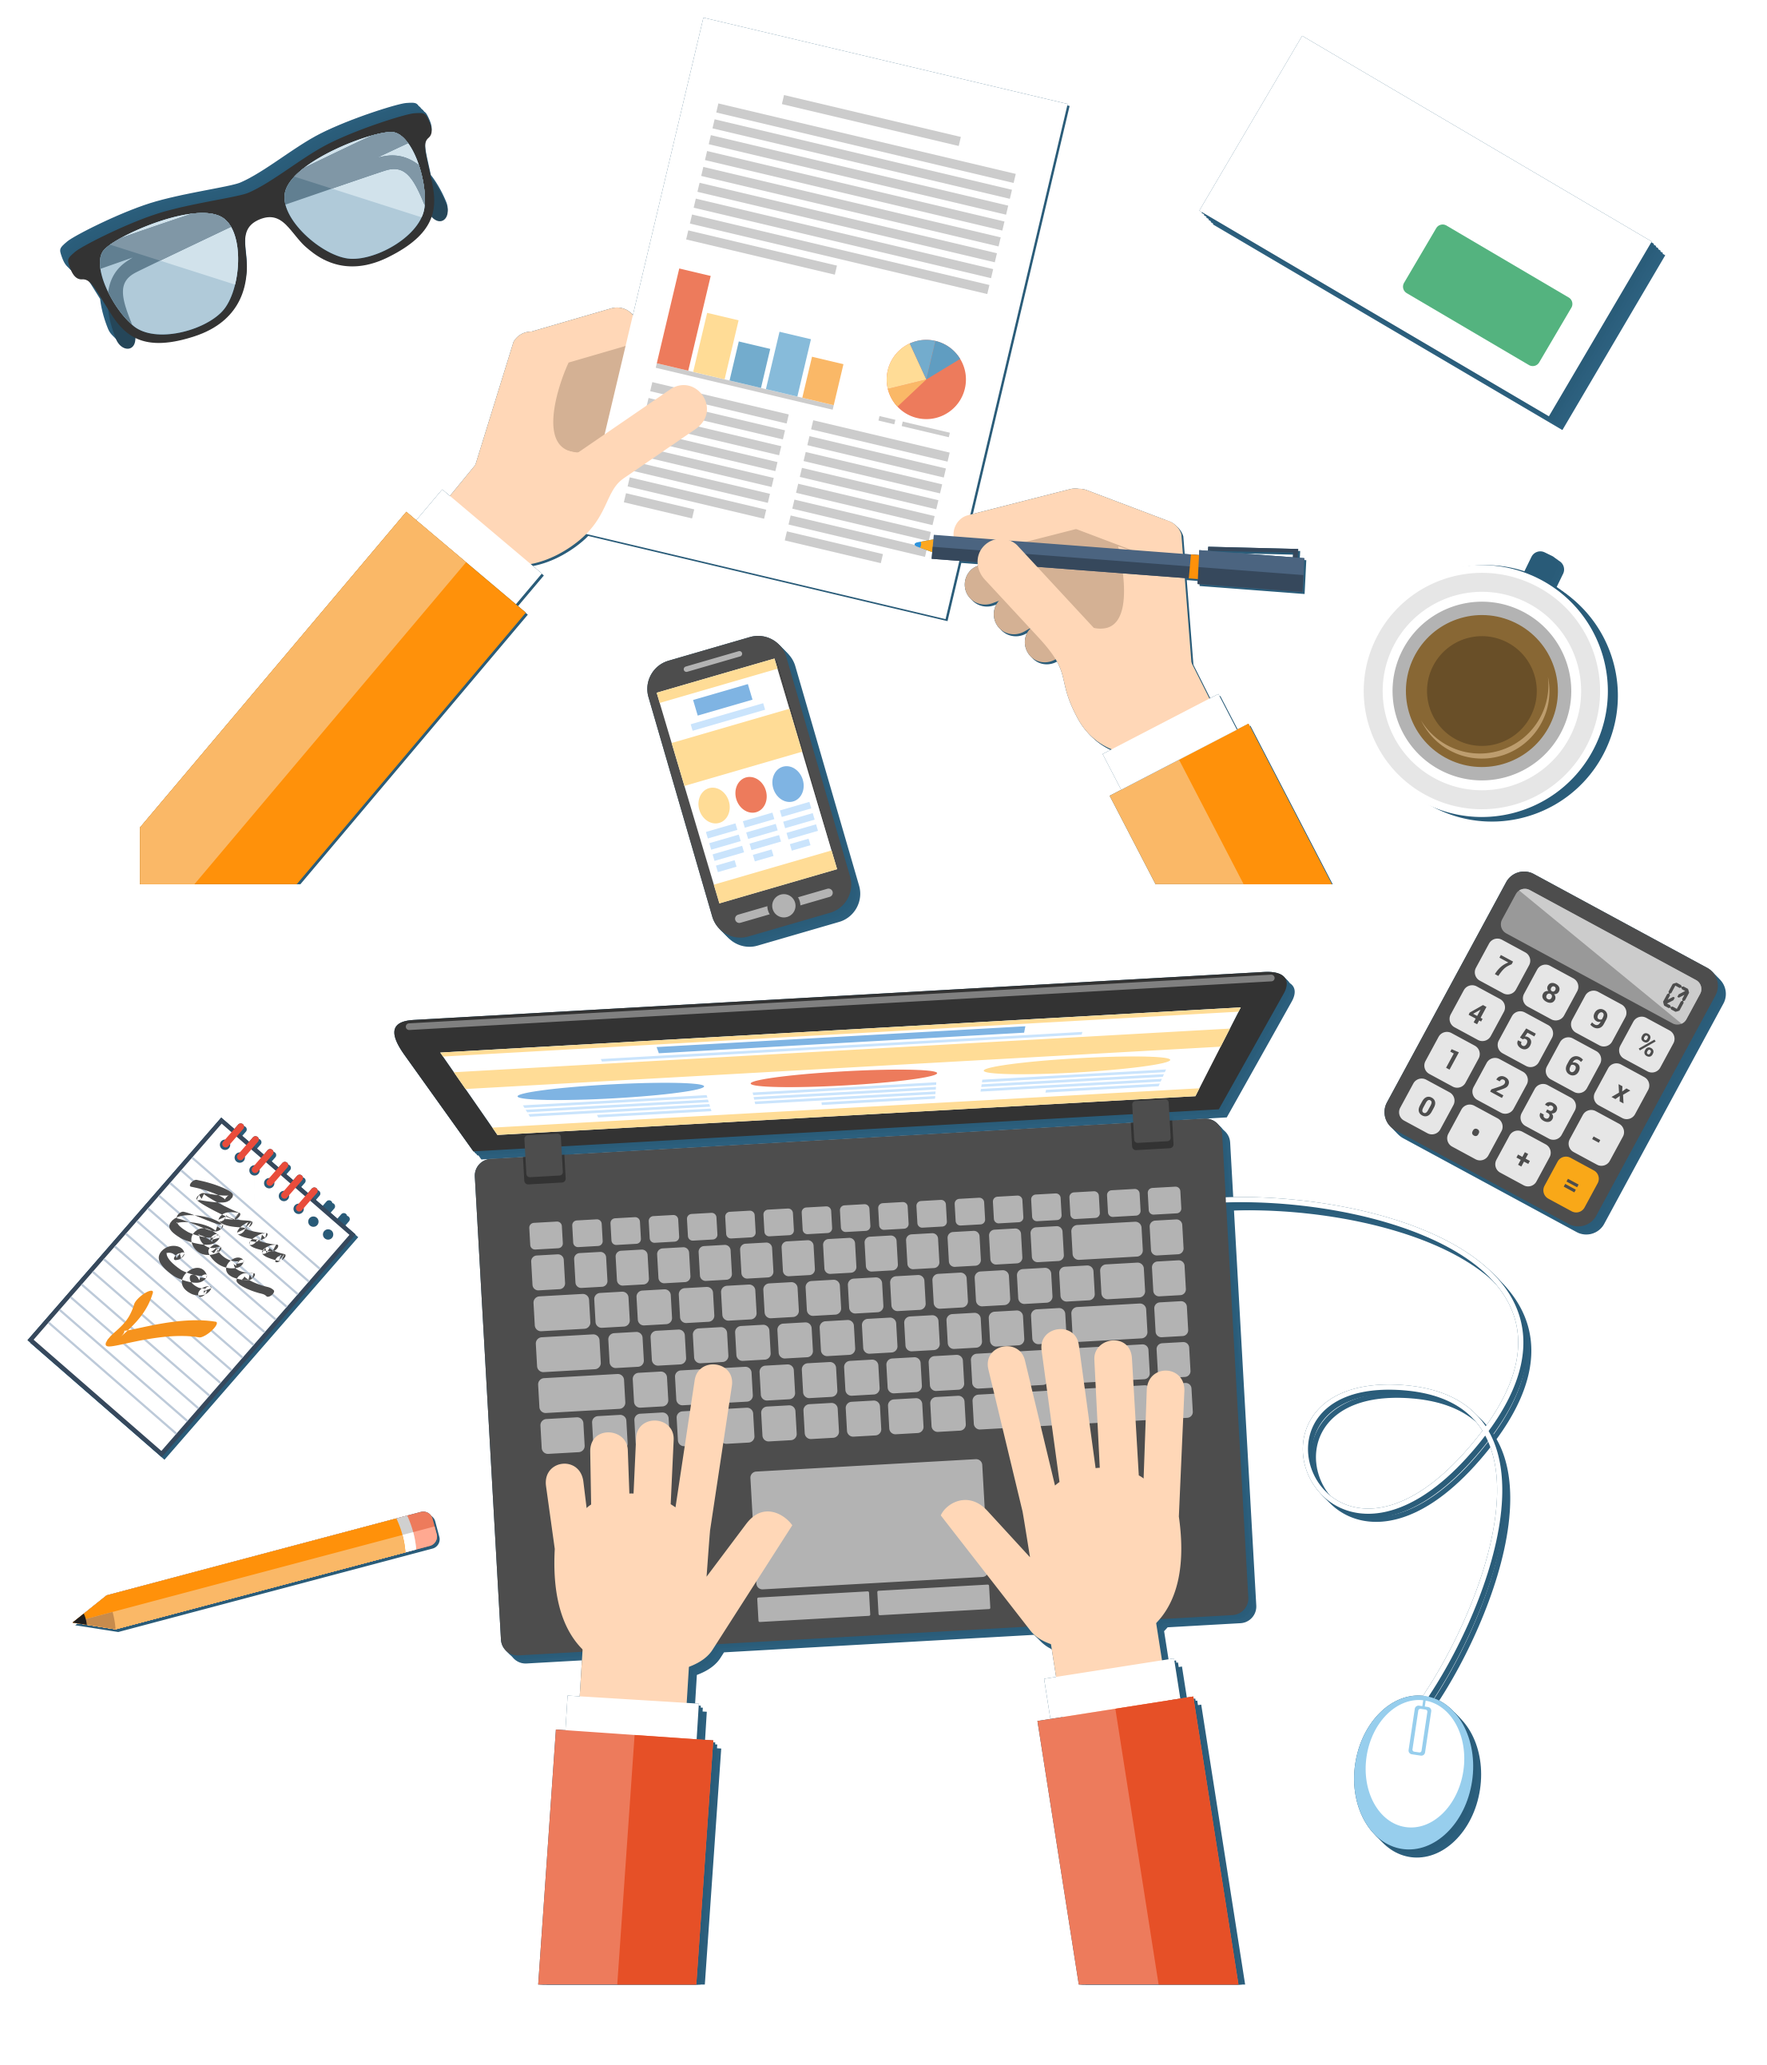
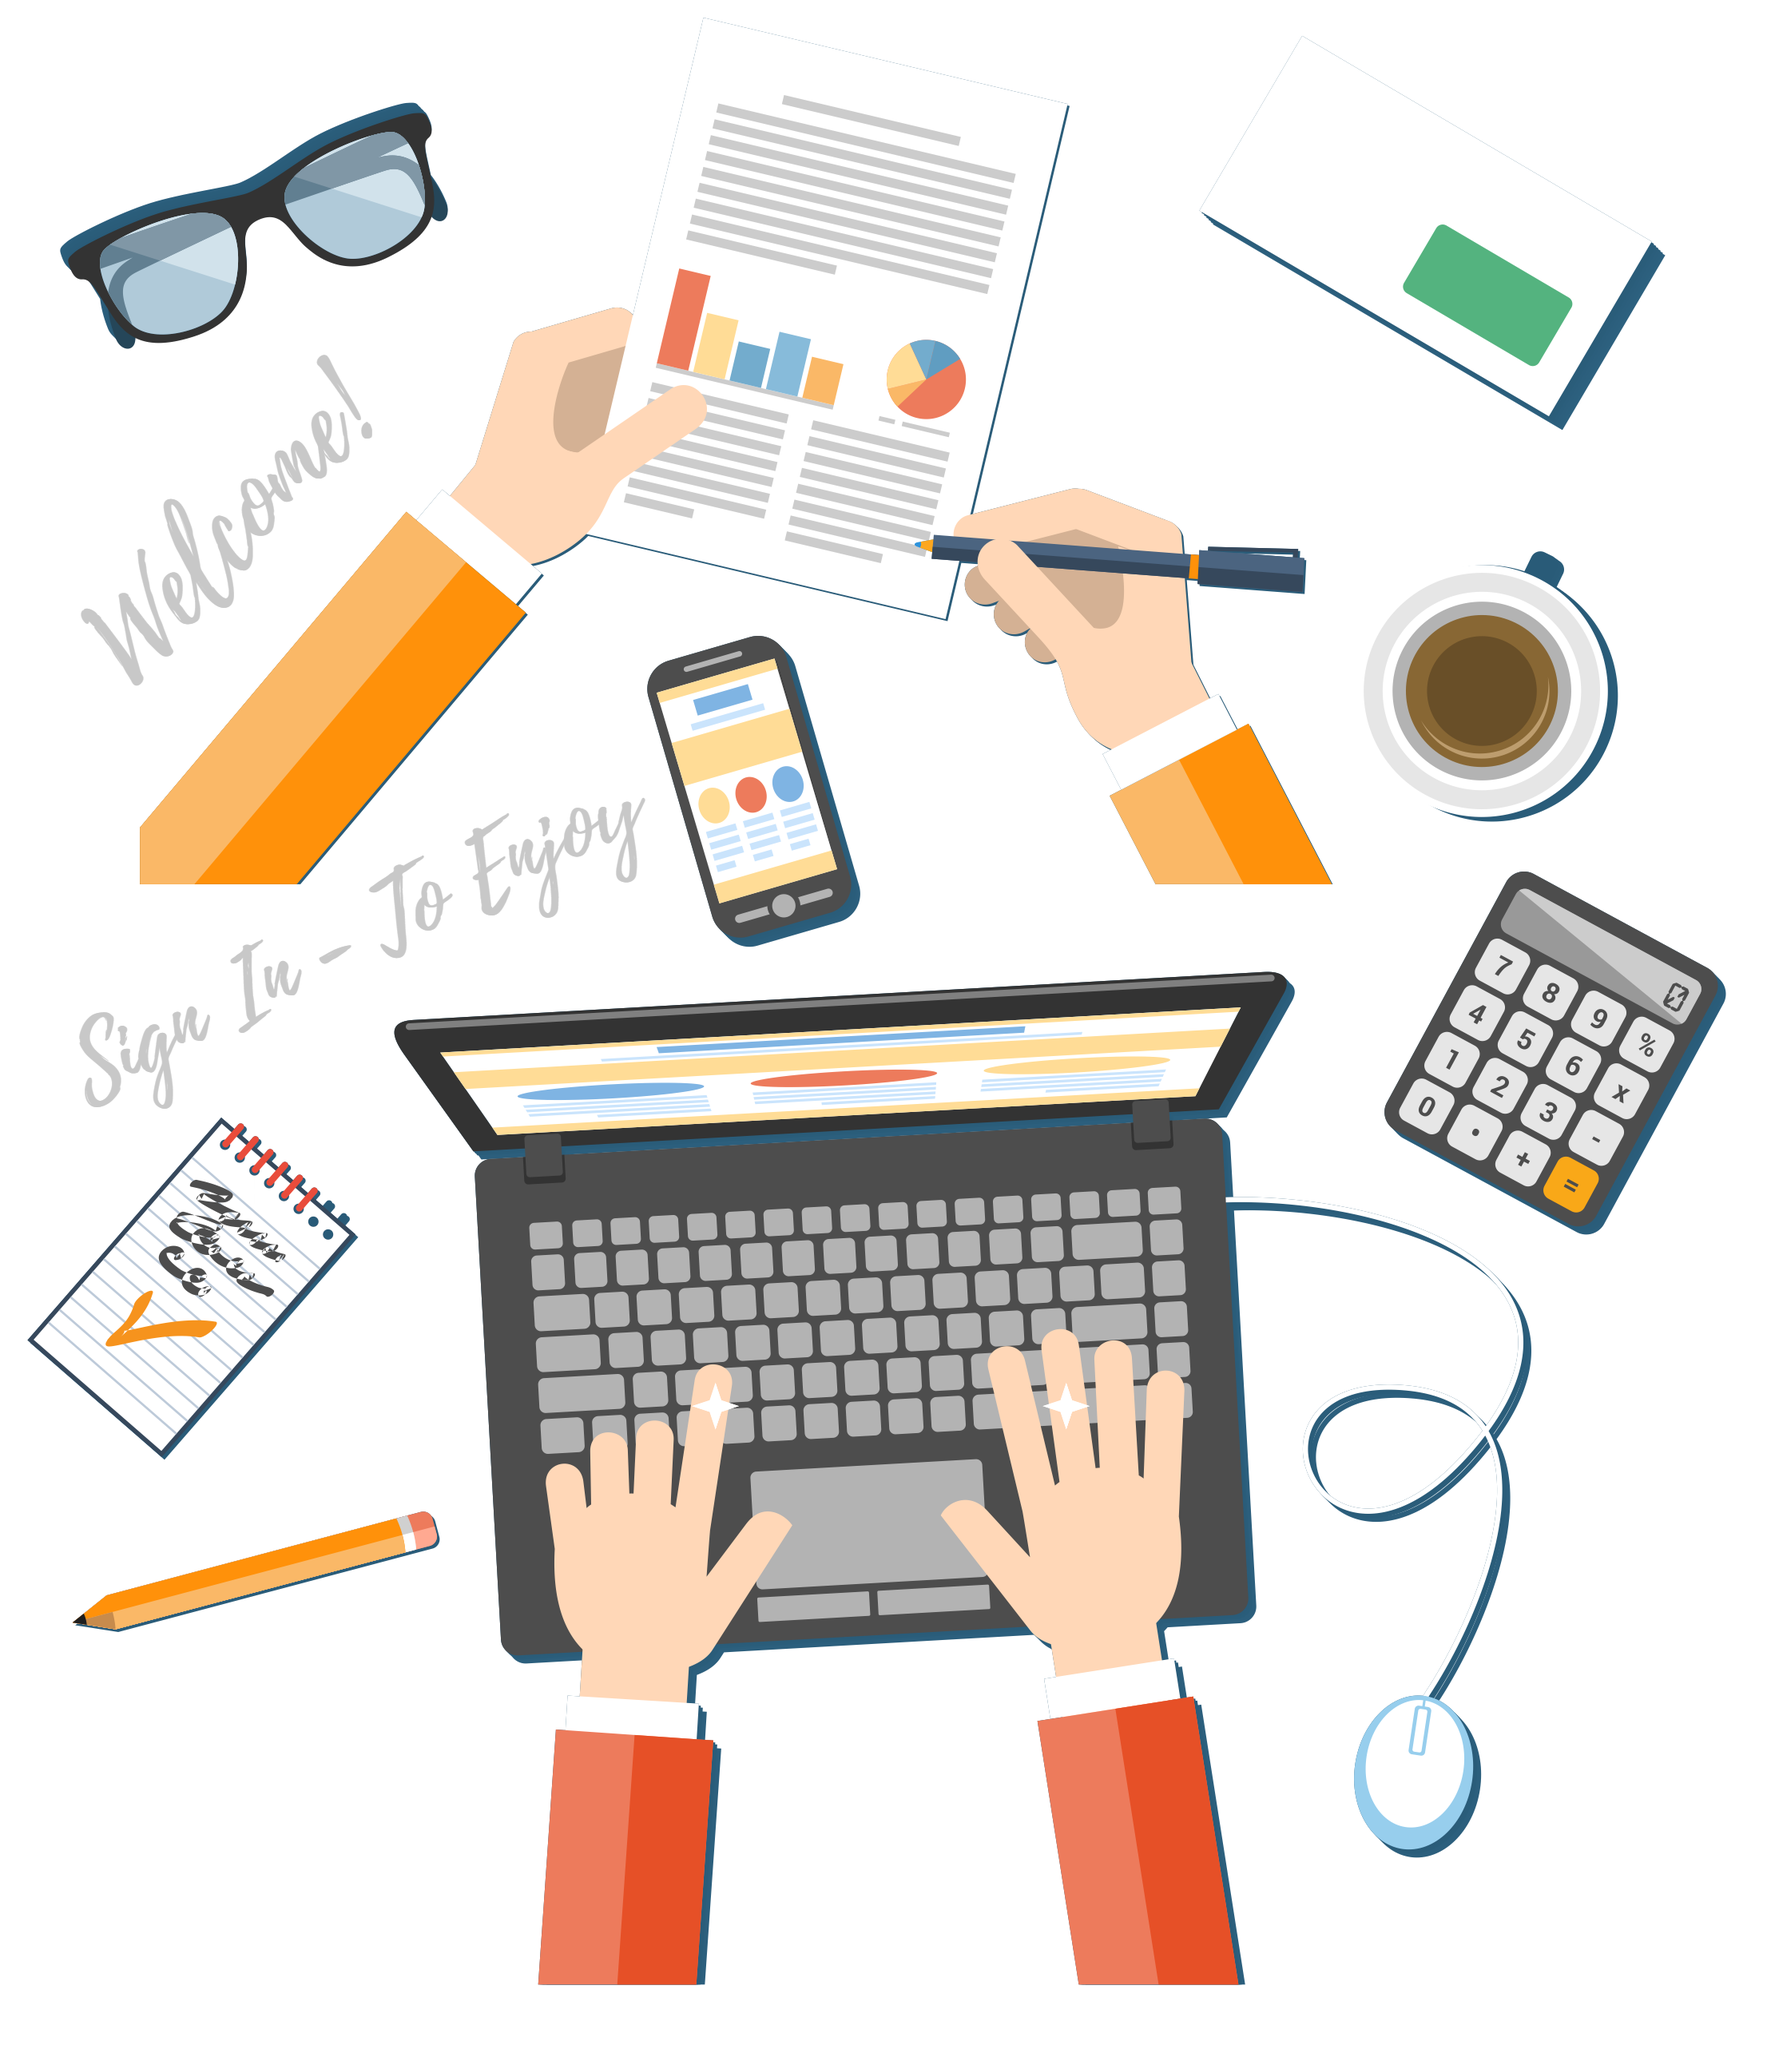
commit

diff --git a/src/Pages/LoginandRegistration.jsx b/src/Pages/LoginandRegistration.jsx
@@ -93,7 +93,7 @@ function LoginandRegistration() {
       <div
         className={`container bg-[#F9F6E6] rounded-lg shadow-2xl relative overflow-hidden w-[95%] max-w-full ${
           isPanelActive ? "right-panel-active" : ""
-        } md:min-h-[95vh]`}
+        } md:min-h-[95vh] `}
       >
         {/* Mobile Overlay Panel */}
         <div className="md:hidden bg-[#3a91a5] text-white p-8 text-center">
@@ -123,7 +123,7 @@ function LoginandRegistration() {
           } md:block md:absolute  md:h-full md:w-1/2 md:opacity-0 md:z-1 md:left-0 md:transition-all md:duration-600`}
         >
           <form
-            className="bg-[#F8FAFC] flex items-center  flex-col px-8 md:px-12 py-8 md:h-full text-center"
+            className="bg-[#F8FAFC] flex items-center  flex-col px-8 md:px-12 py-4 md:h-full text-center"
             onSubmit={handleSubmit}
           >
             <h1 className="font-bold text-4xl ">Create Account</h1>
@@ -181,7 +181,7 @@ function LoginandRegistration() {
               {loading ? "Signing Up..." : "Sign Up"}
               </span>
             </button>
-            <div className="mt-8 text-l text-gray-700 flex ">
+            <div className="mt-8 text-l text-gray-700 flex flex-col md:flex-row ">
             <p>Already have an account?</p>
             <Link
               onClick={handleSignInClick}
@@ -202,12 +202,12 @@ function LoginandRegistration() {
           } md:block md:absolute md:top-0 md:h-full md:w-1/2 md:z-2 md:left-0 md:transition-all md:duration-600`}
         >
           <form
-            className="bg-[#F8FAFC] flex items-center  flex-col px-8 md:px-12 py-9 md:h-full text-center"
+            className="bg-[#F8FAFC] flex items-center  flex-col px-8 md:px-12 py-4 md:h-full text-center"
             onSubmit={handleSubmit}
           >
             <h1 className="font-bold text-4xl  ">Sign In</h1>
             <SocialIcon />
-            <span className="text-l mb-4 ">or use your account</span>
+            <span className="text-l mb-4 "><p>or</p> <p className="mt-2">use your account</p></span>
             <FormInput
               type="email"
               name="email"
@@ -282,14 +282,14 @@ function LoginandRegistration() {
         <div className="hidden md:block overlay-container absolute top-0 left-1/2 w-1/2 h-full overflow-hidden transition-transform duration-600 z-100 " >
           <div className="overlay  text-white relative -left-full h-full w-[200%] transform translate-x-0 transition-transform duration-600">
             <div className="overlay-panel overlay-left bg-[url('/register.png')]  bg-[#BAD8B6]
-             bg-cover bg-center absolute flex items-center justify-center flex-col p-10 text-center top-0 h-full w-1/2 transform translate-x-0 transition-transform duration-600 -translate-x-[20%]">
+             bg-contain bg-no-repeat bg-center absolute flex items-center justify-center flex-col p-10 text-center top-0 h-full w-1/2 transform translate-x-0 transition-transform duration-600 -translate-x-[20%]">
               {/* <h1 className="font-bold text-2xl mb-4">Welcome Back!</h1>
               <p className="text-sm leading-5 tracking-wider mb-8">
                 To keep connected with us please login with your personal info
               </p> */}
             </div>
-            <div className="overlay-panel overlay-right bg-[url('/login.png')] bg-[#8EB486]
-             bg-cover bg-center absolute flex items-center  flex-col p-10 text-center top-0 h-full w-1/2 transform translate-x-0 transition-transform duration-600 right-0">
+            <div className="overlay-panel overlay-right bg-[url('/loginn.png')] bg-[#8EB486]
+             bg-contain bg-no-repeat bg-center absolute flex items-center  flex-col p-10 text-center top-0 h-full  w-1/2 transform translate-x-0 transition-transform duration-600 right-0">
               {/* <h1 className="font-bold text-2xl mb-4 text-black ">Welcome!</h1>
               <p className="text-2xl font-bold leading-5 tracking-wider mb-8 text-black">
                 Sign In - To Enjoy

diff --git a/src/index.css b/src/index.css
@@ -51,3 +51,34 @@ body {
   }
 }
 
+/* Targeting iPad Mini 4 in Portrait Mode */
+@media (device-width: 768px) and (device-height: 1024px) and (orientation: portrait) and (-webkit-min-device-pixel-ratio: 2) {
+  .container.right-panel-active .sign-in-container {
+    transform: translateX(100%);
+  }
+
+  .container.right-panel-active .sign-up-container {
+    transform: translateX(100%);
+    opacity: 1;
+    z-index: 5;
+    animation: show 0.6s;
+  }
+
+  .container.right-panel-active .overlay-container {
+    transform: translateX(-100%);
+  } 
+
+  .container.right-panel-active .overlay {
+    transform: translateX(50%);
+  }
+
+  .container.right-panel-active .overlay-left {
+    transform: translateX(0);
+  }
+
+  .container.right-panel-active .overlay-right {
+    transform: translateX(20%);
+  }
+}
+
+

diff --git a/src/components/SocialIcon.jsx b/src/components/SocialIcon.jsx
@@ -3,7 +3,7 @@ import { BsTiktok } from 'react-icons/bs';
 
 const SocialIcon = () => {
   return (
-    <div className="social-container my-5   flex gap-[8px]  ">
+    <div className="social-container mt-4 mb-2   flex gap-[8px]  ">
       <a href="#" className="border border-gray-200 rounded-full inline-flex justify-center items-center m-0 h-10 w-10 hover:bg-gray-50 transition-colors " title='Facebook'>
         <Facebook className="w-5 h-5 text-gray-600 hover:text-blue-600 hover:border-blue-500" />
       </a>
